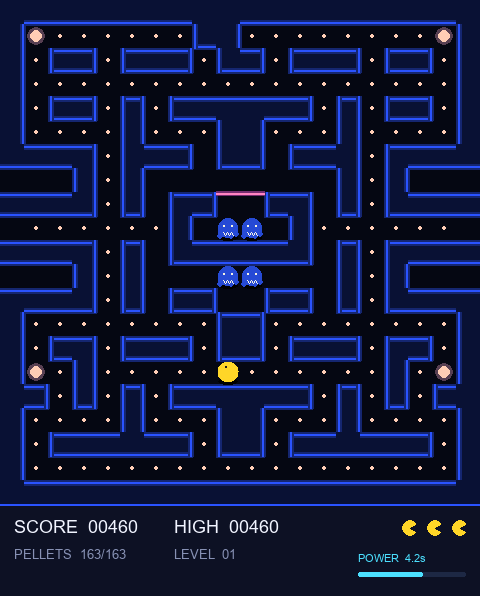
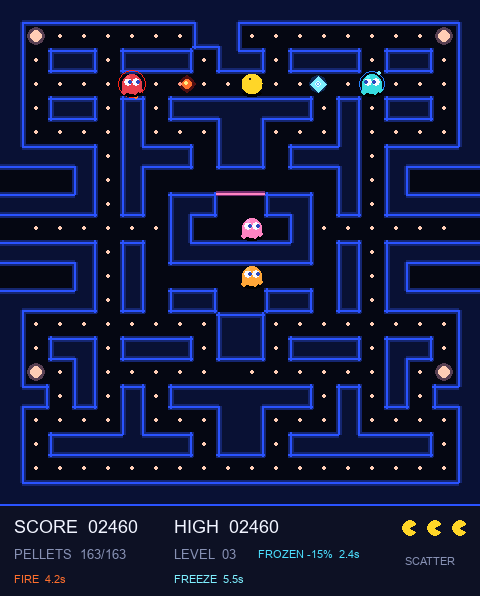
docs(pacman): visualize combat telemetry and refresh media

diff --git a/pacManRf/src/visualization/observatory.py b/pacManRf/src/visualization/observatory.py
@@ -362,7 +362,10 @@ class PacmanObservatory:
         y += 28
         y = self._draw_metric_cards(surface, pygame.Rect(inner.x, y, inner.width, 102), telemetry, columns=3)
         y += 9
-        q_rect = pygame.Rect(inner.x, y, inner.width, min(190, max(130, inner.bottom - y - 115)))
+        combat_rect = pygame.Rect(inner.x, y, inner.width, 74)
+        self._draw_combat_telemetry(surface, combat_rect, telemetry, compact=True)
+        y = combat_rect.bottom + 9
+        q_rect = pygame.Rect(inner.x, y, inner.width, min(176, max(118, inner.bottom - y - 108)))
         self._draw_q_bars(surface, q_rect, telemetry, compact=True)
         y = q_rect.bottom + 10
         memory_rect = pygame.Rect(inner.x, y, inner.width, max(72, inner.bottom - y))
@@ -414,7 +417,7 @@ class PacmanObservatory:
             ("PATHS", "path", "walkable", self.theme.blue),
             ("PELLETS", "pellet", "proximity", self.theme.yellow),
             ("POWER PELLETS", "power pellet", "proximity", self.theme.purple),
-            ("THREATS", "threat", "danger proximity", self.theme.red),
+            ("THREATS", "threat", "ghost + projectile proximity", self.theme.red),
             ("EDIBLE GHOSTS", "edible ghost", "target proximity", self.theme.cyan),
         )
         row_gap = 7
@@ -621,7 +624,9 @@ class PacmanObservatory:
             columns=6,
         )
 
-        chart_top = inner.y + cards_height + 14
+        combat_rect = pygame.Rect(inner.x, inner.y + cards_height + 10, inner.width, 62)
+        self._draw_combat_telemetry(surface, combat_rect, telemetry, compact=False)
+        chart_top = combat_rect.bottom + 12
         bottom_height = 108
         charts_rect = pygame.Rect(inner.x, chart_top, inner.width, max(100, inner.bottom - chart_top - bottom_height - 12))
         gap = 12
@@ -674,6 +679,97 @@ class PacmanObservatory:
         q_rect = pygame.Rect(inner.x, graph_rect.bottom + 12, inner.width, max(90, inner.bottom - graph_rect.bottom - 12))
         self._draw_network_graph(surface, graph_rect, telemetry, network, layers, weights)
         self._draw_q_bars(surface, q_rect, telemetry, compact=False)
+
+    def _draw_combat_telemetry(
+        self,
+        surface: pygame.Surface,
+        rect: pygame.Rect,
+        telemetry: Mapping[str, Any],
+        *,
+        compact: bool,
+    ) -> None:
+        pygame.draw.rect(surface, self.theme.panel_alt, rect, border_radius=9)
+        pygame.draw.rect(surface, self.theme.grid, rect, 1, border_radius=9)
+        self._text(
+            surface,
+            "COMBAT TELEMETRY",
+            (rect.x + 11, rect.y + 8),
+            self.theme.text,
+            8,
+            bold=True,
+        )
+        caption = (
+            "diagnostic · shares THREAT inputs"
+            if compact
+            else "diagnostic · projectile rays share the four THREAT inputs"
+        )
+        self._text(surface, caption, (rect.x + 119, rect.y + 8), self.theme.muted, 7)
+
+        projectile_data = _to_plain(telemetry.get("projectiles"))
+        if not isinstance(projectile_data, Mapping):
+            self._text(
+                surface,
+                "No projectile telemetry received",
+                (rect.x + 11, rect.y + 32),
+                self.theme.muted,
+                9,
+            )
+            return
+
+        weapons = _to_plain(projectile_data.get("weapons"))
+        weapons = weapons if isinstance(weapons, Mapping) else {}
+
+        def weapon_text(owner: str, label: str) -> str:
+            weapon = _to_plain(weapons.get(owner))
+            if not isinstance(weapon, Mapping):
+                return f"{label}  —"
+            unlocked = bool(weapon.get("unlocked", False))
+            early = bool(weapon.get("unlocked_early", False))
+            cooldown = _number(weapon.get("cooldown_seconds")) or 0.0
+            range_tiles = int(_number(weapon.get("range_tiles")) or 0)
+            if not unlocked:
+                status = "LOCKED"
+            elif cooldown > 0:
+                status = f"{'EARLY ' if early else ''}{cooldown:.1f}s"
+            elif early:
+                status = "EARLY READY"
+            else:
+                status = "READY"
+            return f"{label}  {status} · {range_tiles}t"
+
+        fire = weapon_text("BLINKY", "FIRE")
+        freeze = weapon_text("INKY", "FREEZE")
+        active = int(_number(projectile_data.get("active_count")) or 0)
+        shots = int(_number(projectile_data.get("shots_fired")) or 0)
+        fire_hits = int(_number(projectile_data.get("fireball_hits")) or 0)
+        freeze_hits = int(_number(projectile_data.get("freeze_ball_hits")) or 0)
+        slowed = bool(projectile_data.get("player_slowed", False))
+        slow_fraction = (_number(projectile_data.get("slow_fraction")) or 0.0) * 100
+        slow_timer = _number(projectile_data.get("slow_timer")) or 0.0
+
+        midpoint = rect.x + rect.width // 2
+        self._text(surface, fire, (rect.x + 11, rect.y + 29), self.theme.orange, 8, bold=True)
+        self._text(surface, freeze, (midpoint, rect.y + 29), self.theme.cyan, 8, bold=True)
+        if compact:
+            diagnostic = f"ACTIVE {active} · SHOTS {shots} · HITS {fire_hits}/{freeze_hits}"
+            player = f"PACMAN  -{slow_fraction:.0f}% · {slow_timer:.1f}s" if slowed else "PACMAN  NORMAL"
+            self._text(surface, diagnostic, (rect.x + 11, rect.y + 51), self.theme.muted, 7)
+            player_image = self._font(7, bold=True).render(
+                player,
+                True,
+                self.theme.cyan if slowed else self.theme.green,
+            )
+            surface.blit(player_image, (rect.right - player_image.get_width() - 11, rect.y + 51))
+        else:
+            diagnostic = f"ACTIVE {active}    TOTAL SHOTS {shots}    FIRE HITS {fire_hits}    FREEZE HITS {freeze_hits}"
+            player = f"PACMAN SLOWED {slow_fraction:.0f}% · {slow_timer:.1f}s" if slowed else "PACMAN NORMAL SPEED"
+            self._text(surface, diagnostic, (rect.x + 11, rect.y + 47), self.theme.muted, 8)
+            player_image = self._font(8, bold=True).render(
+                player,
+                True,
+                self.theme.cyan if slowed else self.theme.green,
+            )
+            surface.blit(player_image, (rect.right - player_image.get_width() - 11, rect.y + 47))
 
     def _draw_metric_cards(
         self,

diff --git a/pacManRf/main.py b/pacManRf/main.py
@@ -42,11 +42,56 @@ def _run_manual(args) -> None:
     import pygame
     from pacManRf.src.game.pacmanGame import PacmanGame
 
-    game = PacmanGame(render=not (args.headless or args.screenshot))
+    game = PacmanGame(
+        render=not (args.headless or args.screenshot),
+        seed=args.seed,
+    )
     if args.screenshot:
-        game.phase = type(game.phase).ACTIVE
-        game.frightened_timer = 4.2
-        game.score = 460
+        from pacManRf.src.game.constants import Direction, GamePhase, PLAYER_SPEED
+
+        # A deterministic level-three scene exercises the same projectile,
+        # sprite, HUD, and renderer code used in live play.
+        game.level = 3
+        game.phase = GamePhase.ACTIVE
+        game.phase_timer = 0.0
+        game.frightened_timer = 0.0
+        game.score = 2_460
+        game.high_score = 2_460
+        game.animation_time = 0.37
+        game.player.reset_position((10, 3), Direction.LEFT)
+        game.ghosts[0].reset_position((5, 3), Direction.RIGHT)
+        game.ghosts[0].released = True
+        game.ghosts[2].reset_position((15, 3), Direction.LEFT)
+        game.ghosts[2].released = True
+        game.projectile_system.reset_level(initial_cooldown_seconds=0.0)
+        fireball = game.projectile_system.try_fire(
+            "BLINKY",
+            game.level,
+            (5, 3),
+            (1, 0),
+            game._projectile_cell_is_walkable,
+            next_cell=game._projectile_next_cell,
+        )
+        freeze_ball = game.projectile_system.try_fire(
+            "INKY",
+            game.level,
+            (15, 3),
+            (-1, 0),
+            game._projectile_cell_is_walkable,
+            next_cell=game._projectile_next_cell,
+        )
+        if fireball is not None:
+            fireball.cell = (7, 3)
+            fireball.tiles_travelled = 2
+            fireball.progress = 0.3
+        if freeze_ball is not None:
+            freeze_ball.cell = (13, 3)
+            freeze_ball.tiles_travelled = 2
+            freeze_ball.progress = 0.25
+        game.projectile_shots_fired = 2
+        game.player_slow.fraction = 0.15
+        game.player_slow.remaining_seconds = 2.4
+        game.player.speed = PLAYER_SPEED * game.player_speed_multiplier
         game.save_screenshot(args.screenshot)
         pygame.quit()
         return

diff --git a/pacManRf/src/visualization/smoke.py b/pacManRf/src/visualization/smoke.py
@@ -44,6 +44,29 @@ def verify_surfaces(output_directory: str | Path | None = None) -> dict[str, tup
         "online_q_values": [-0.8, 1.5, 0.4, -0.1],
         "target_q_values": [-0.6, 1.2, 0.55, -0.2],
         "chosen_action": 1,
+        "projectiles": {
+            "weapons": {
+                "BLINKY": {
+                    "unlocked": True,
+                    "unlocked_early": True,
+                    "cooldown_seconds": 0.0,
+                    "range_tiles": 5,
+                },
+                "INKY": {
+                    "unlocked": True,
+                    "unlocked_early": False,
+                    "cooldown_seconds": 2.4,
+                    "range_tiles": 15,
+                },
+            },
+            "active_count": 2,
+            "player_slowed": True,
+            "slow_fraction": 0.15,
+            "slow_timer": 1.8,
+            "shots_fired": 14,
+            "fireball_hits": 2,
+            "freeze_ball_hits": 3,
+        },
         "recent_rewards": [0.0, 0.0, 10.0, -1.0, 0.0, 10.0],
         "recent_actions": [2, 2, 1, 0, 3, 1],
         "recent_dones": [False, False, False, True, False, False],

diff --git a/README.md b/README.md
@@ -52,10 +52,21 @@ Use `--algorithm dqn` with either learner to run standard DQN instead.
 | Arrow keys or `WASD` | Queue the next direction |
 | `Space` | Pause or resume |
 | `R` | Restart the game |
-| `Enter` or `N` | Start the next maze after a clear |
 | `Esc` | Quit |
 
-Small pellets score 10 points and power pellets score 50. A power pellet makes ghosts frightened for seven seconds. Consecutive ghosts eaten during one power window score 200, 400, 800, then 1,600 points. Pacman begins with three lives, earns an extra life at 10,000 points, and advances to progressively faster mazes after every clear.
+Small pellets score 10 points and power pellets score 50. On level one, a power pellet makes ghosts frightened for seven seconds. Consecutive ghosts eaten during one power window score 200, 400, 800, then 1,600 points. Pacman begins with three lives and earns an extra life at 10,000 points.
+
+Clearing the final pellet now moves directly into the next level. Score, high score, lives, extra-life state, weapon unlocks, and cumulative combat statistics survive the transition; only the maze and round-local effects are reset. The RL agent receives a separate **+500 level-clear bonus** on top of the score-derived pellet reward and normal step terms.
+
+Difficulty rises deliberately slowly:
+
+| Level | Ghost speed | Power time | Ghost weapons |
+|---:|---:|---:|---|
+| 1 | 100% | 7.0 s | Each weapon has an independent 20% early-unlock roll |
+| 2 | 101% | 6.9 s | Any level-one early unlock remains active |
+| 3 | 102% | 6.8 s | Blinky fireball and Inky freeze ball are guaranteed |
+
+Each later level adds only 1% ghost speed, capped at 120%, and removes only 0.1 seconds of power time, floored at 4.5 seconds.
 
 | Ghost | Strategy |
 |---|---|
@@ -64,11 +75,20 @@ Small pellets score 10 points and power pellets score 50. A power pellet makes g
 | Inky | Flanks using Pacman and Blinky |
 | Clyde | Chases at range and retreats when close |
 
-Animation frames are cached in `pygame.sprite.Sprite` objects. Rules operate on grid coordinates while rendering interpolates pixel positions using delta time. Ghosts alternate between timed scatter and chase modes, leave the house on staggered timers, reverse when power mode begins, and return home as animated eyes after being eaten. READY, death, maze-clear, and score-popup phases are explicit states rather than blocking delays.
+From level three, Blinky and Inky gain visible animated weapon auras:
+
+| Ghost | Projectile | Range | Cooldown | Hit effect |
+|---|---|---:|---:|---|
+| Blinky (red) | Fireball | 5 tiles | 4.25 s | Removes one life |
+| Inky (blue) | Freeze ball | 15 tiles | 5.5 s | Slows Pacman by 15% for 3 seconds |
+
+The two independent 20% early-unlock draws come from the run's seeded RNG, so a level-one run may have neither weapon, either one, or both. The result persists across levels. Shots require a straight, unobstructed corridor; frightened, eaten, and unreleased ghosts cannot fire. Every projectile disappears when it reaches its range limit, strikes Pacman, or collides with a wall. Fire, ice, and impact frames are cached `pygame.sprite.Sprite` assets, while armed ghosts receive animated color-matched auras.
+
+Movement and path decisions operate on grid coordinates while rendering interpolates pixel positions using delta time. Ghosts alternate between timed scatter and chase modes, leave the house on staggered timers, reverse when power mode begins, and return home as animated eyes after being eaten. READY, death, and maze-clear are explicit game phases; score popups are timed state objects rather than blocking delays. Wall contours are generated with vertex-aware joins so concave rails stay connected while true diagonal contacts remain separate.
 
 ## Pacman DQN observatory
 
-The RL adapter advances exactly one grid-cell decision per `step`, independent of rendering speed. Actions are relative to Pacman's heading—**straight**, **turn right**, **turn left**, or **reverse**—and both behavior selection and bootstrap targets mask directions blocked by walls.
+The RL adapter advances from one grid decision boundary to the next per `step`, independent of rendering speed. Actions are relative to Pacman's heading—**straight**, **turn right**, **turn left**, or **reverse**—and both behavior selection and bootstrap targets mask directions blocked by walls.
 
 Useful run modes:
 
@@ -106,7 +126,7 @@ Visual controls:
 | Click the speed scale | Select any preset with the mouse |
 | `R` | Reset the current episode |
 | `S` | Save a checkpoint immediately |
-| `Esc` | Save and quit |
+| `Esc` | Quit; when training, save unless `--no-save` |
 
 The seven visual presets are **1, 5, 15, 30, 60, 120, and 240 decisions per second**. The header shows the current label, target rate, and position on the clickable SLOW-to-MAX scale. `--speed` accepts any starting value in that range; the next speed key moves to the adjacent preset.
 
@@ -121,12 +141,12 @@ The policy receives a named, normalized 32-value vector—not pixels. Directiona
 | 4 | Paths | Whether each direction is walkable |
 | 4 | Pellets | Path-distance proximity to a normal pellet |
 | 4 | Power pellets | Path-distance proximity to a power pellet |
-| 4 | Threats | Proximity to a released dangerous ghost |
+| 4 | Threats | Proximity to dangerous ghosts and active projectile rays |
 | 4 | Edible ghosts | Proximity to a frightened ghost |
 | 4 | Heading | One-hot absolute heading: up, right, down, left |
 | 8 | Context | Position, frightened time, pellets left, lives, level, chase mode, and released-ghost ratio |
 
-The VISION tab groups and labels all 32 current values, highlights legal paths and threats, and shows how the relative action frame maps onto Pacman's heading. Nothing in that view is reconstructed from the rendered board; it is the exact observation supplied to the network.
+The VISION tab groups and labels all 32 current values, highlights legal paths and threats, and shows how the relative action frame maps onto Pacman's heading. Projectile danger is merged into the existing four threat values—using five-tile fire and 15-tile freeze rays—so older 32-input checkpoints remain compatible. Nothing in that view is reconstructed from the rendered board; it is the exact observation supplied to the network.
 
 ```text
 32 observations  →  256 ReLU  →  128 ReLU  →  4 Q-values
@@ -136,9 +156,9 @@ The VISION tab groups and labels all 32 current values, highlights legal paths a
 
 | Tab | Live data |
 |---|---|
-| GAME | The actual maze, score, episode, reward, loss, epsilon, replay strip, and online/target Q-values |
+| GAME | The actual maze, score, combat state, episode, reward, loss, epsilon, replay strip, and online/target Q-values |
 | VISION | All named observation features, legal-action mask, current heading, and action-relative sensor groups |
-| METRICS | Rolling reward, loss, score, and epsilon charts plus recent transitions and replay capacity |
+| METRICS | Rolling reward, loss, score, and epsilon charts plus combat telemetry, recent transitions, and replay capacity |
 | NETWORK | The current forward-pass activations, learned online-network weights, architecture, parameter count, and online/target Q-values |
 
 The NETWORK tab is model introspection, not a decorative diagram. It runs the current observation through the online model, chooses the 11 strongest-magnitude nodes from each larger layer for readability, and draws the exact learned weights connecting those selected nodes. Layer labels retain the full sizes (`11 / 32`, `11 / 256`, `11 / 128`, and all four outputs). Cyan edges are positive, magenta edges are negative, thickness represents relative magnitude, node intensity represents activation magnitude, and the selected action has a yellow outline. The action bars separately compare the online network with the synchronized target network.
@@ -152,7 +172,9 @@ Pacman training defaults:
 | Mini-batch | 64 transitions |
 | Target synchronization | Every 250 updates |
 | Epsilon | 1.00 → 0.05 over 25,000 decisions |
-| Episode boundary | Life loss, maze clear, game over, or 2,000 decisions |
+| Level clear reward | +500 plus score-derived reward |
+| Freeze-hit reward | -5 |
+| Episode boundary | Game over, quit, or 2,000 decisions |
 | Network | 32 → 256 → 128 → 4 |
 
 Checkpoints are written atomically to `pacManRf/models/checkpoints/pacman_dqn_latest.pth` or `pacman_double_dqn_latest.pth`. Model, target network, optimizer, counters, random state, and metadata are restored. Replay remains memory-only by default; pass `--save-replay` to include it in the checkpoint or `--no-save` to leave the existing checkpoint untouched.
@@ -174,13 +196,13 @@ best_action = argmax_a Q_online(next_state, a)
 y = reward + gamma * Q_target(next_state, best_action)
 ```
 
-That separation reduces the optimistic value bias created by a single maximization estimate. Use the same seed and switch only `--algorithm dqn` / `--algorithm double_dqn` for a direct comparison.
+That separation reduces the optimistic value bias created by a single maximization estimate. For a controlled comparison, run both with `--fresh --seed N` and switch only `--algorithm dqn` / `--algorithm double_dqn`.
 
 ```mermaid
 flowchart LR
     E["Pacman environment"] -->|32-value observation| P["Masked epsilon-greedy policy"]
     P -->|relative action| E
-    E -->|state, action, reward, next state, legal mask| M["Replay memory"]
+    E -->|state, action, reward, next state, terminal, legal mask| M["Replay memory"]
     M -->|random mini-batch| O["Online Q-network"]
     O -->|periodic copy| T["Target Q-network"]
     O --> V["Live observatory"]
@@ -198,13 +220,13 @@ The Snake policy receives an 11-value binary vector:
  food left, food right, food up, food down]
 ```
 
-The first three values are drawn as rays around the snake's head. Red means the probed move collides; blue means it is safe. The observation passes through:
+The first three values are drawn as rays around the snake's head. Red means the probed move collides; green means it is safe. The observation passes through:
 
 ```text
 11 inputs  →  512 ReLU  →  256 ReLU  →  3 Q-values
 ```
 
-Outputs estimate **straight**, **turn right**, and **turn left**. The board also shows the collision probes, dashed food vector, recent path visits, starvation budget, online and target values, exploration/exploitation mode, recent replay, and training metrics.
+Outputs estimate **straight**, **turn right**, and **turn left**. The board also shows the collision probes, dashed food vector, recent path visits, starvation budget, online action values, a target-network gap, exploration/exploitation mode, recent replay, and training metrics.
 
 ```bash
 # Headless training
@@ -229,7 +251,7 @@ python -m pacManRf.main --help
 python -m snakeGameQDlearning.main --help
 ```
 
-All asset, model, and checkpoint paths are resolved from the repository instead of the current working directory.
+Built-in assets and default model/checkpoint locations are resolved from the repository; user-supplied output and custom checkpoint paths are resolved from the current directory.
 
 ## Project layout
 
@@ -272,21 +294,17 @@ late-night-tests -v
 
 `python -m unittest discover -v` also works from the repository root. Standard discovery searches the current directory, so running it from `~` correctly finds zero project tests.
 
-Coverage includes Pacman maze and life rules, deterministic RL transitions, the normalized observation contract, legal-action target masking, DQN versus Double-DQN bootstrap behavior, bounded/serializable replay, checkpoint round trips, real network telemetry, all observatory tabs, animated GIF output, Snake edge cases, renderer smoke tests, and finite learning updates.
+Coverage includes every concave and diagonal maze contour, score-preserving level transitions, gradual difficulty scaling, seeded weapon unlocks, projectile range/cooldown/collision rules, freeze and fire effects, projectile-aware 32-value observations, deterministic RL transitions, legal-action target masking, DQN versus Double-DQN bootstrap behavior, bounded/serializable replay, checkpoint round trips, real network telemetry, all observatory tabs, animated GIF output, Snake edge cases, renderer smoke tests, and finite learning updates.
 
 Regenerate documentation media from the real renderers:
 
 ```bash
 python -m pacManRf.main \
-  --screenshot assets/screenshots/pacman-gameplay.png
+  --seed 1 --screenshot assets/screenshots/pacman-gameplay.png
 
 python -m pacManRf.main \
-  --rl --algorithm double_dqn --fresh --no-save \
+  --rl --algorithm double_dqn --fresh --no-save --seed 1 \
   --gif assets/gifs/pacman-dqn-observatory.gif
-
-python -m pacManRf.main \
-  --rl --algorithm double_dqn --fresh --no-save --tab network \
-  --screenshot assets/screenshots/pacman-network.png
 
 python -m snakeGameQDlearning.main \
   --algorithm double_dqn --fresh \
